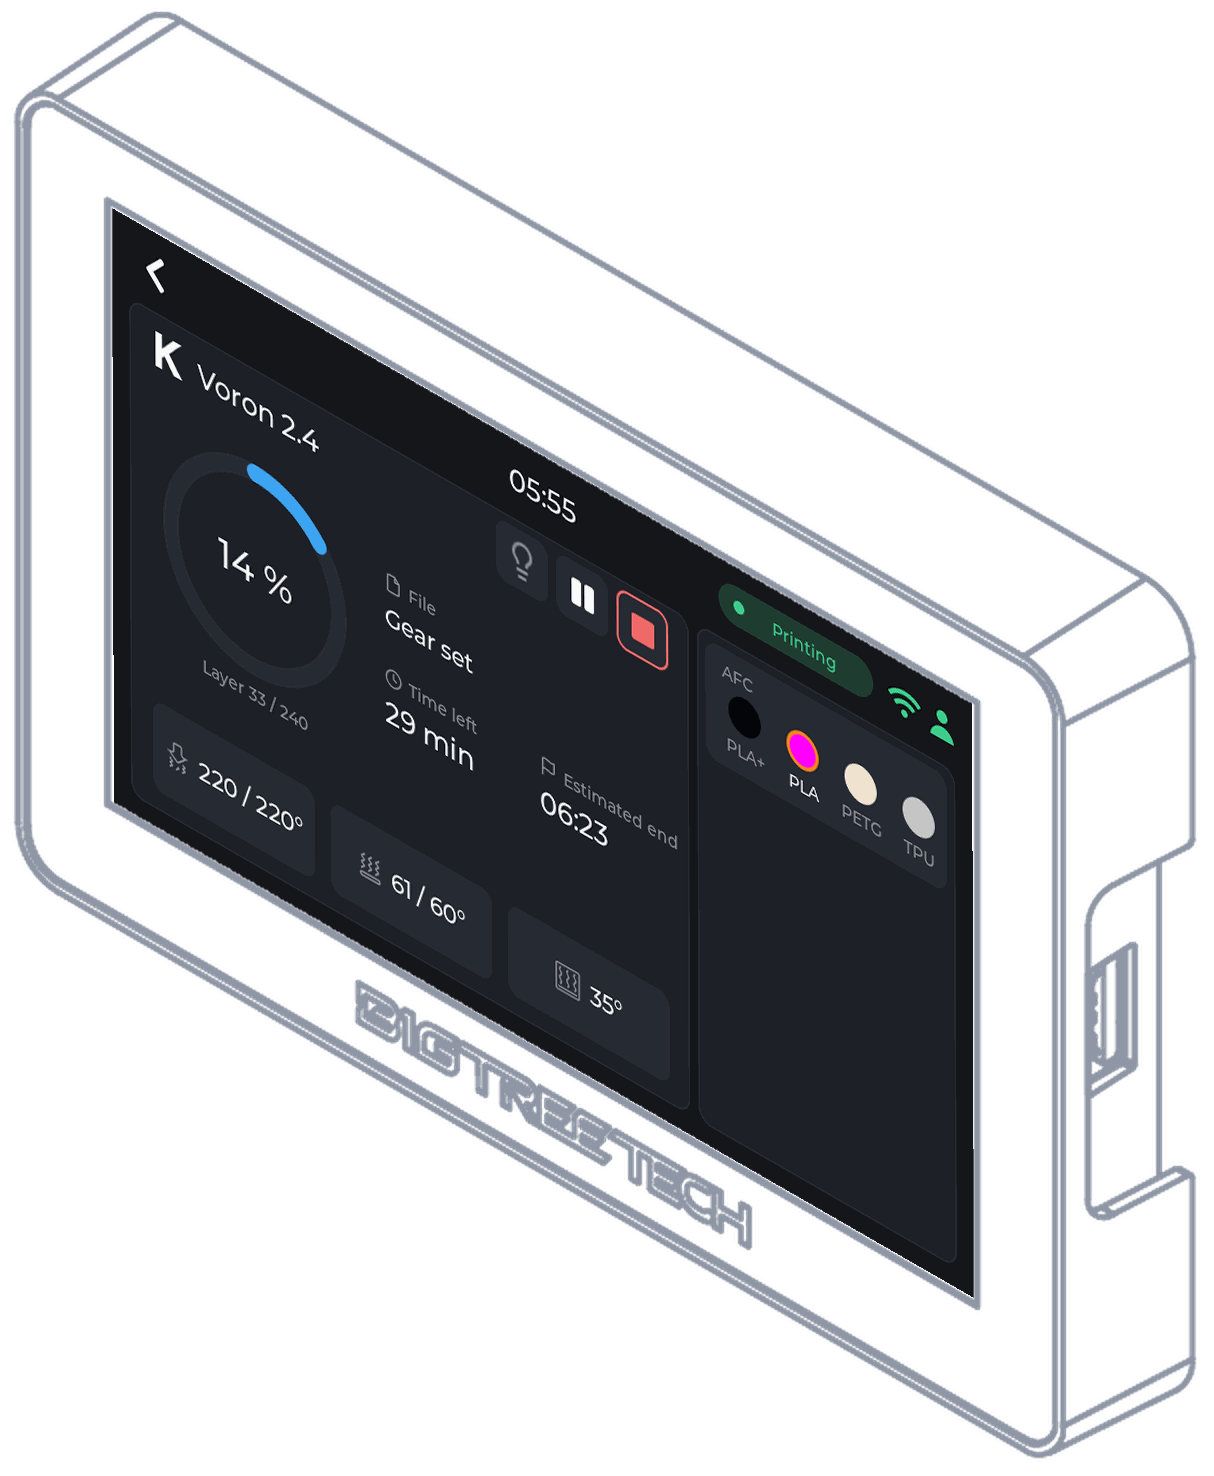
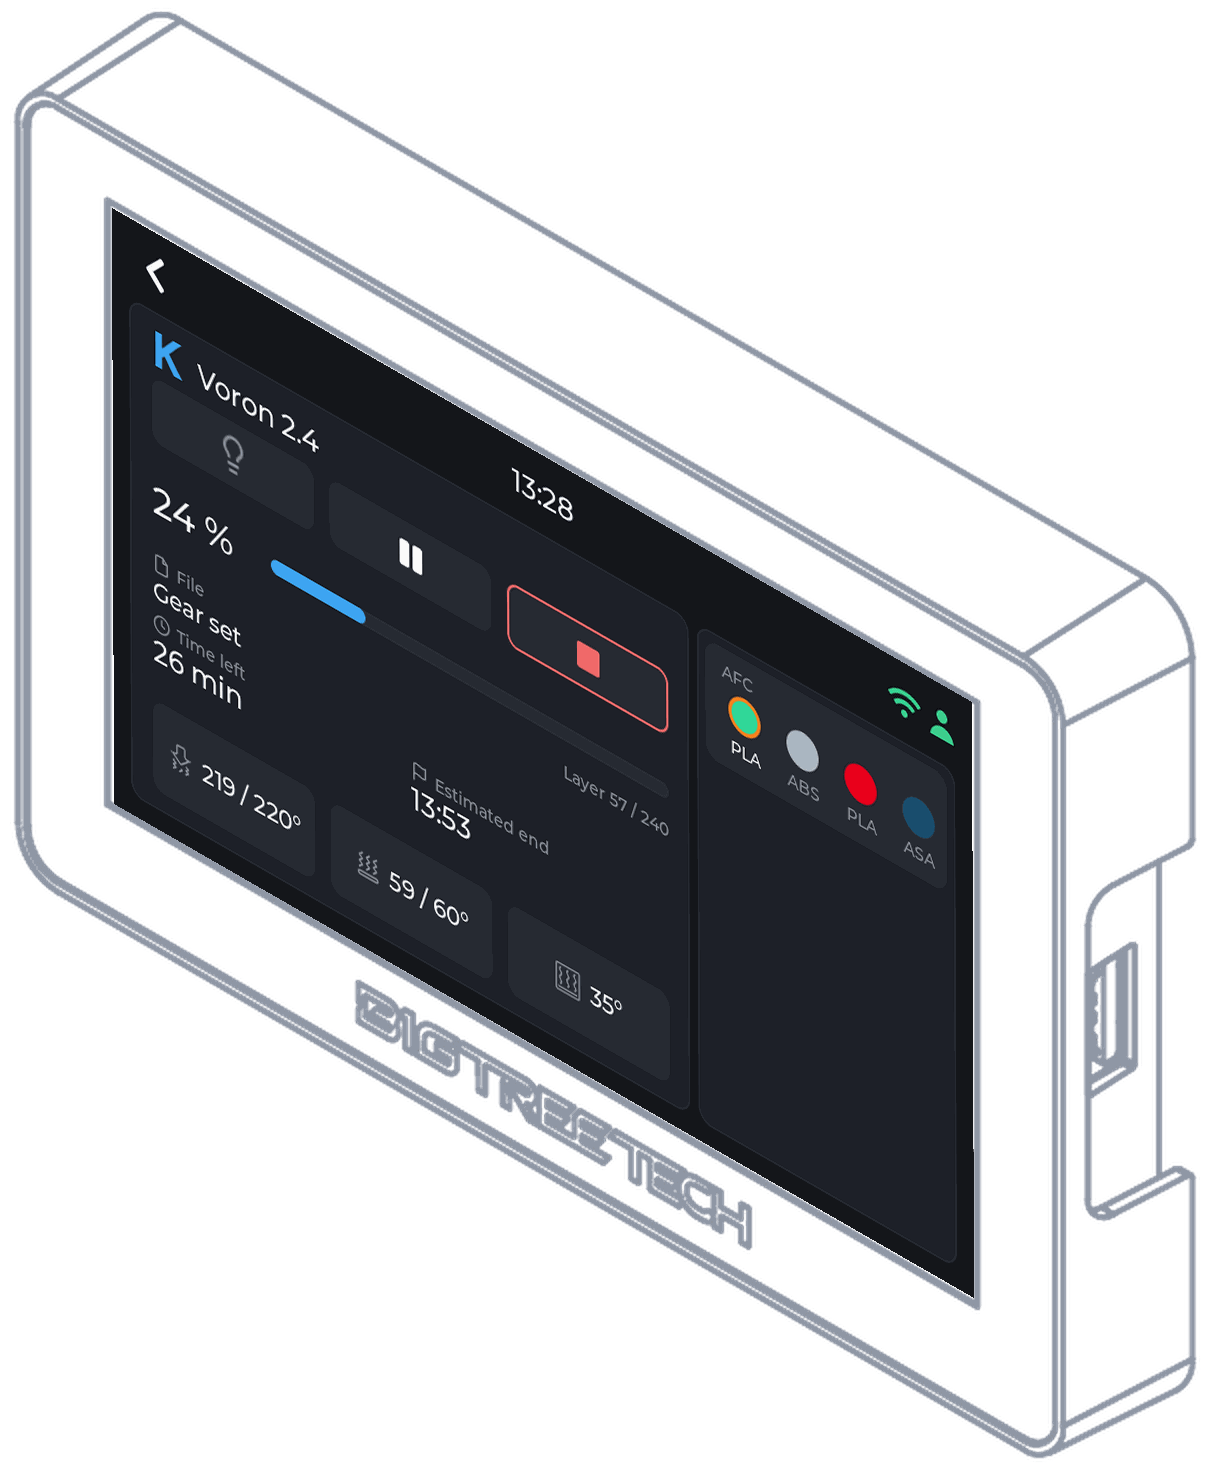
Show the new screens in the drawings, the share pictures and the campaign illustration
The 45-degree drawings (cards, list, printer and the nine of the brand pages),
the README's animated picture, the installer's device picture and the ten share
pictures are made again from the new captures. scripts/make-drawings.py does the
drawings: the capture is set on the glass with the affine map found on the
committed drawings, and the animation is rebuilt from them. make-og-images.py
takes a regular face beside the bold one, so it can run with Arial on Windows.

The screen of the PandaTouch Reforged illustration shows the current full view of
the X1 Carbon, set in the tilted glass. The four brand drawings' descriptions say
progress bar instead of progress ring, in the eleven languages. MOCKUPS.md and
HARDWARE.md say what changed.

diff --git a/scripts/make-drawings.py b/scripts/make-drawings.py
@@ -1,0 +1,102 @@
+#!/usr/bin/env python3
+"""The screen set in the 45-degree drawing of the Panda Touch.
+
+A capture of assets/screens/ is set on the glass of the drawing with the affine map
+that draws the screen in that pose, and the animation of the README
+(assets/devices/tiger-touch-views.webp) is a cross-fade between four of them. Run it
+again when a captured screen changes (docs/MOCKUPS.md):
+
+  python3 scripts/make-drawings.py
+
+A tool for the person making pictures, not part of any build; it needs Pillow and
+numpy. It writes assets/devices/brands/<brand>.png (a printer's full view, one per brand page
+of the site), assets/devices/tiger-touch-cards.png, -list.png, -printer.png,
+assets/tiger-touch-device.png (the cards, as the README's first picture), the
+installer's installer/device.png (the cards at half size) and
+assets/devices/tiger-touch-views.webp. The start-up drawing (-splash.png) is not a
+capture and is left as it is.
+
+How the map was found: for a committed drawing and the capture it was made from, the
+six coefficients below are the ones that make the capture, warped, match the drawing
+(mean difference 1.2 out of 255 over the screen). The same map fits the three
+drawings, and setting the old captures back in the old drawings gives them back to
+within 0.4 out of 255.
+"""
+import pathlib
+
+import numpy as np
+from PIL import Image
+
+ROOT = pathlib.Path(__file__).resolve().parent.parent
+DEVICES = ROOT / "assets" / "devices"
+
+# Capture (x, y), 800 x 480 -> drawing (X, Y), 1214 x 1476: X = a x + b y + c, Y = d x + e y + f
+AFFINE = (1.0749, 0.0045, 111.95, 0.6175, 1.24173, 208.0)
+
+# drawing -> the capture set in it
+DRAWINGS = (("cards", "home-cards"), ("list", "home-list"), ("printer", "printer-snapmaker-u1"))
+
+# brand page (installer/brand-pages.json, "shot") -> the capture of its printer, in assets/devices/brands/
+BRANDS = (("anycubic", "printer-anycubic-kobra-s1"), ("bambu-lab", "printer-bambu-x1c"),
+          ("creality", "printer-creality-k2"), ("elegoo", "printer-elegoo-cc2"),
+          ("flashforge", "printer-flashforge-ad5x"), ("klipper", "printer-klipper-voron"),
+          ("octoprint", "printer-octoprint-ender3"), ("prusa", "printer-prusa-core-one"),
+          ("snapmaker", "printer-snapmaker-u1"))
+
+# The animation: start-up, cards, list, a printer, then round again; each change is three
+# frames of 100 ms (a quarter, a half, three quarters), each screen stays 2.2 s (2.6 s for the first).
+VIEWS_SIZE = (560, 681)
+VIEWS_ORDER = ("splash", "cards", "list", "printer")
+
+
+def warp(img, resample):
+    a, b, c, d, e, f = AFFINE
+    inv = np.linalg.inv(np.array([[a, b, c], [d, e, f], [0, 0, 1]], dtype=np.float64))
+    return img.transform((1214, 1476), Image.AFFINE, tuple(inv[:2].reshape(-1)), resample=resample)
+
+
+def set_in(drawing, capture):
+    """The capture on the glass of the drawing, over what was there (the old screen)."""
+    out = drawing.convert("RGBA")
+    screen = warp(capture.convert("RGB"), Image.BICUBIC).convert("RGBA")
+    screen.putalpha(warp(Image.new("L", capture.size, 255), Image.BILINEAR))
+    out.alpha_composite(screen)
+    return out
+
+
+def palette(img):
+    return img.quantize(colors=256, method=Image.Quantize.FASTOCTREE, dither=Image.Dither.NONE)
+
+
+def views():
+    d = [Image.open(DEVICES / ("tiger-touch-%s.png" % n)).convert("RGBA").resize(VIEWS_SIZE, Image.LANCZOS)
+         for n in VIEWS_ORDER]
+    frames, durations = [], []
+    for i, a in enumerate(d):
+        b = d[(i + 1) % len(d)]
+        frames.append(a)
+        durations.append(2600 if i == 0 else 2200)
+        for t in (0.25, 0.5, 0.75):
+            frames.append(Image.blend(a, b, t))
+            durations.append(100)
+    frames[0].save(DEVICES / "tiger-touch-views.webp", save_all=True, append_images=frames[1:],
+                   duration=durations, loop=0, quality=75, method=6)
+
+
+def main():
+    jobs = [(DEVICES / ("tiger-touch-%s.png" % n), c) for n, c in DRAWINGS]
+    jobs += [(DEVICES / "brands" / ("%s.png" % n), c) for n, c in BRANDS]
+    for path, shot in jobs:
+        out = set_in(Image.open(path), Image.open(ROOT / "assets" / "screens" / (shot + ".png")))
+        palette(out).save(path, optimize=True)
+        print("%s: %d KB" % (path.relative_to(ROOT), path.stat().st_size // 1024))
+    cards = Image.open(DEVICES / "tiger-touch-cards.png")
+    cards.save(ROOT / "assets" / "tiger-touch-device.png", optimize=True)
+    palette(cards.convert("RGBA").resize((607, 738), Image.LANCZOS)).save(ROOT / "installer" / "device.png",
+                                                                       optimize=True)
+    views()
+    print("assets/devices/tiger-touch-views.webp: %d KB" % ((DEVICES / "tiger-touch-views.webp").stat().st_size // 1024))
+
+
+if __name__ == "__main__":
+    main()

diff --git a/scripts/make-og-images.py b/scripts/make-og-images.py
@@ -11,7 +11,8 @@ needs no font and no Pillow): the JPEGs are committed in assets/og/ and the site
 build copies them. Run again when a page's picture or lineup changes:
 
   python3 scripts/make-og-images.py        (needs Pillow and a bold font:
-                                            Helvetica Neue on macOS, or --font)
+                                            Helvetica Neue on macOS, or --font
+                                            and --regular)
 """
 import argparse
 import json
@@ -24,8 +25,10 @@ W, H = 1200, 630
 BG, TEXT, MUTED, ACCENT = (20, 22, 26), (242, 242, 242), (139, 144, 154), (245, 130, 32)
 
 
-def fonts(path):
+def fonts(path, regular=None):
     def f(size, bold=True):
+        if regular and not bold:
+            return ImageFont.truetype(str(regular), size)
         if path.suffix == ".ttc":
             return ImageFont.truetype(str(path), size, index=1 if bold else 0)
         return ImageFont.truetype(str(path), size)
@@ -106,8 +109,9 @@ def card(title2, sub, device, printers, footer, font):
 def main():
     ap = argparse.ArgumentParser()
     ap.add_argument("--font", default="/System/Library/Fonts/HelveticaNeue.ttc")
+    ap.add_argument("--regular", help="the regular face, when --font is a bold one-face file (Windows: arialbd.ttf and arial.ttf)")
     a = ap.parse_args()
-    font = fonts(pathlib.Path(a.font))
+    font = fonts(pathlib.Path(a.font), pathlib.Path(a.regular) if a.regular else None)
     out = ROOT / "assets" / "og"
     out.mkdir(parents=True, exist_ok=True)
     data = json.loads((ROOT / "installer" / "brand-pages.json").read_text())["brands"]

diff --git a/docs/MOCKUPS.md b/docs/MOCKUPS.md
@@ -10,7 +10,7 @@ the device except a new capture.
 | Folder | What | Made by |
 |---|---|---|
 | [`assets/screens/`](../assets/screens/) | Captures of the real screen, 800 x 480, in Demo mode | the device (below) |
-| [`assets/devices/`](../assets/devices/) | The Panda Touch alone, transparent PNGs (front, three-quarter, back, dock); the 45-degree drawings | BIGTREETECH's product pictures, cut out; the drawings by hand |
+| [`assets/devices/`](../assets/devices/) | The Panda Touch alone, transparent PNGs (front, three-quarter, back, dock); the 45-degree drawings | BIGTREETECH's product pictures, cut out; the drawings by hand, the screens set in them by [`scripts/make-drawings.py`](../scripts/make-drawings.py) |
 | [`assets/mockups/front/`](../assets/mockups/front/) | Each capture in the front picture | `scripts/make-mockups.py stills`, *Still mockups* below |
 | [`assets/mockups/angle/`](../assets/mockups/angle/) | Each capture, the start-up screen and the protocols' screens in the three-quarter photograph | [`scripts/make-mockups.py`](../scripts/make-mockups.py) `stills` |
 | [`assets/mockups/animated/`](../assets/mockups/animated/) | Views that move (cards, list, update, and the tour: start-up, list, cards), the screen alone, in the front picture (`front/`) and in the three-quarter photograph (`angle/`), each in its own folder, GIF and WebP | [`scripts/make-mockups.py`](../scripts/make-mockups.py) |
@@ -101,6 +101,26 @@ a perspective transform (a homography solved from the four pairs of corners), it
 edge anti-aliased, and a faint diagonal reflection laid over it. Another
 photograph needs its own four corners, measured the same way: a grid over the
 picture, then each corner zoomed.
+
+## The 45-degree drawings: a capture set in the drawing
+
+`assets/devices/tiger-touch-cards.png`, `-list.png` and `-printer.png` are the line drawing
+of the Panda Touch with a capture on its glass; `assets/tiger-touch-device.png` is the cards
+one again, `installer/device.png` the same at half size, and
+`assets/devices/tiger-touch-views.webp` (the README's first picture) a cross-fade between the
+start-up screen, the cards, the list and a printer. `scripts/make-drawings.py` does all of it
+from the captures:
+
+```bash
+python3 scripts/make-drawings.py   # needs Pillow and numpy
+```
+
+The glass is an affine drawing of the 800 x 480 screen (six coefficients in the script),
+found by fitting a committed drawing to the capture it was made from: they agree to 1.2 out
+of 255 over the screen, the same map fits the three drawings, and setting the old captures
+back in the old drawings gives them back to within 0.4. The new capture is set over the
+old screen, so the script can be run as often as needed. The start-up drawing is not a
+capture and is not touched.
 
 ## Still mockups: a capture in the frame
 

diff --git a/CHANGELOG.md b/CHANGELOG.md
@@ -41,7 +41,18 @@ they were written.
   three-quarter mockups, the cards, list and tour animations are made again from
   them: the line fills, the logo and the line turn green at 100 %.
   `scripts/make-mockups.py` draws the line instead of the ring, and `stills` now writes
-  the front mockups as well. `docs/MOCKUPS.md` says so.
+  the front mockups as well. `docs/MOCKUPS.md` says so. The 45-degree drawings
+  (cards, list and printer), the README's animated picture and the installer's device
+  picture show the new screens too, set in the drawing by the new
+  `scripts/make-drawings.py`, which now also makes the nine brand drawings
+  (`assets/devices/brands/`, on the brand pages and the media kit). The ten share pictures
+  (`assets/og/`) are made again from them; `scripts/make-og-images.py` takes `--regular`
+  beside `--font` to be run with a bold and a regular file (on Windows, Arial Bold and
+  Arial). The descriptions of the four brand drawings that spoke of a progress ring (Bambu
+  Lab, Creality, Prusa, OctoPrint) say progress bar, in the eleven languages. The screen of
+  the PandaTouch Reforged campaign illustration (`assets/social/pandatouch-reforged.png`)
+  shows the current full view of the X1 Carbon, set in the glass along its tilt; the rest
+  of the picture is as it was.
 - **The README's six screen captures show the firmware as it is now**: the cards,
   the list and the full views of the Snapmaker U1, the FlashForge AD5X, the Bambu
   Lab X1 Carbon and the Creality K2 Plus, taken again in Demo mode, with the

diff --git a/WORKLOG.md b/WORKLOG.md
@@ -15,6 +15,10 @@ reset to this header at each release.
 - List rows: the nozzle and bed pictograms are drawn (24 px, the only size they have), not asked for at 16 px.
 
 ## Changed
+- Share pictures: the ten `assets/og/*.jpg` made again (home with the new cards, the nine brands from the new brand drawings); make-og-images.py gains `--regular` for a font file without a regular face.
+- Campaign illustration: the screen of `assets/social/pandatouch-reforged.png` replaced by the current X1 Carbon capture, set in the tilted glass.
+- Brand drawings: the nine `assets/devices/brands/*.png` made again by make-drawings.py; brand pages' alt texts say progress bar in the eleven languages.
+- Drawings: `scripts/make-drawings.py` sets the captures in the 45-degree drawings (cards, list, printer), the device pictures and the README's animated webp; run again.
 - Mockups: the five other captures taken again, front and three-quarter stills and the cards, list and tour animations made again; make-mockups.py draws the line, `stills` writes the front stills; MOCKUPS.md corrected.
 - README screens: the six captures taken again in Demo mode, their descriptions say progress line and amber (they follow the card, list and full view changes).
 - Printer cards: the progress is a line under the three buttons, which share the card's width; the ring is gone.

diff --git a/docs/HARDWARE.md b/docs/HARDWARE.md
@@ -123,7 +123,7 @@ Tried and set aside, each measured:
   an image costs what drawing it does.
 - **Espressif's SIMD blending** (`esp_lvgl_port`): built for LVGL 9.1 only;
   this firmware uses 9.6.
-- **The cards' rings** cost nothing measurable; the direction of a scroll
+- **The cards' progress ring** (up to 2.3.0, before it became a line) cost nothing measurable; the line was not measured again; the direction of a scroll
   matters only through what it moves.
 
 The floor is the PSRAM: every frame of a scroll rewrites the whole moving area
